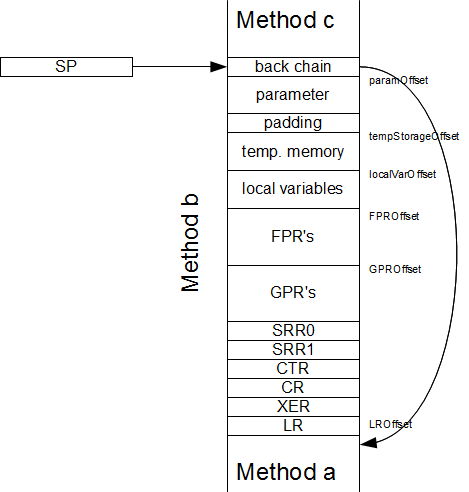
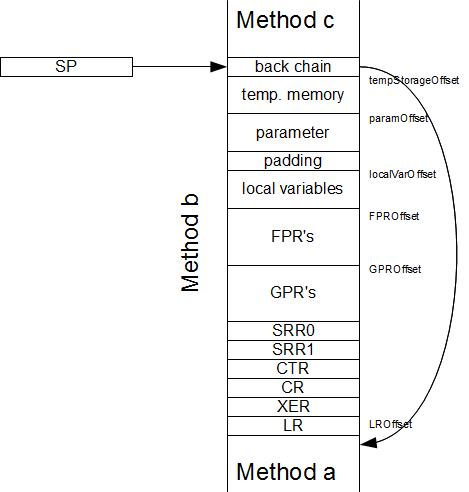
stack frame corrected, tempStorage moved to top

Changed region(s): [[0.5075, 0.1829, 0.7463, 0.3659], [0.7761, 0.2134, 0.9851, 0.3049], [0.7761, 0.1524, 0.9851, 0.1829]]

diff --git a/src/ch/ntb/inf/deep/cg/ppc/CodeGenPPC.java b/src/ch/ntb/inf/deep/cg/ppc/CodeGenPPC.java
@@ -50,7 +50,6 @@ public class CodeGenPPC extends CodeGen implements InstructionOpcs, Registers {
 	private static int localVarOffset;
 	private static int tempStorageOffset;	
 	private static int stackSize;
-	static boolean tempStorage;
 	static boolean enFloatsInExc;
 
 	// information about the src registers for parameters of a call to a method within this method
@@ -70,7 +69,6 @@ public class CodeGenPPC extends CodeGen implements InstructionOpcs, Registers {
 		
 		if (dbg) StdStreams.vrb.println("build intervals");
 
-		tempStorage = false;
 		enFloatsInExc = false;
 		RegAllocator.regsGPR = regsGPRinitial;
 		RegAllocator.regsFPR = regsFPRinitial;
@@ -308,7 +306,7 @@ public class CodeGenPPC extends CodeGen implements InstructionOpcs, Registers {
 	}
 
 	private static int calcStackSize() {
-		int size = 8 + callParamSlotsOnStack * 4 + nofNonVolGPR * 4 + nofNonVolFPR * 8 + RegAllocator.maxLocVarStackSlots * 4 + (tempStorage? tempStorageSize : 0);
+		int size = 8 + callParamSlotsOnStack * 4 + nofNonVolGPR * 4 + nofNonVolFPR * 8 + RegAllocator.maxLocVarStackSlots * 4 + tempStorageSize;
 		if (enFloatsInExc) size += nonVolStartFPR * 8 + 8;	// save volatile FPR's and FPSCR
 		int padding = (16 - (size % 16)) % 16;
 		size = size + padding;
@@ -317,13 +315,13 @@ public class CodeGenPPC extends CodeGen implements InstructionOpcs, Registers {
 		FPRoffset = GPRoffset - nofNonVolFPR * 8;
 		if (enFloatsInExc) FPRoffset -= nonVolStartFPR * 8 + 8;
 		localVarOffset = FPRoffset - RegAllocator.maxLocVarStackSlots * 4;
-		tempStorageOffset = localVarOffset - tempStorageSize;
-		paramOffset = 4;
+		tempStorageOffset = 4;
+		paramOffset = tempStorageOffset + tempStorageSize;
 		return size;
 	}
 
 	private static int calcStackSizeException() {
-		int size = 28 + nofGPR * 4 + RegAllocator.maxLocVarStackSlots * 4 + (tempStorage? tempStorageSize : 0);
+		int size = 28 + nofGPR * 4 + RegAllocator.maxLocVarStackSlots * 4 + tempStorageSize;
 		if (enFloatsInExc) {
 			size += nofNonVolFPR * 8;	// save used nonvolatile FPR's
 			size += nonVolStartFPR * 8 + 8;	// save all volatile FPR's and FPSCR
@@ -340,8 +338,8 @@ public class CodeGenPPC extends CodeGen implements InstructionOpcs, Registers {
 		FPRoffset = GPRoffset - nofNonVolFPR * 8;
 		if (enFloatsInExc) FPRoffset -= nonVolStartFPR * 8 + 8;
 		localVarOffset = FPRoffset - RegAllocator.maxLocVarStackSlots * 4;
-		tempStorageOffset = localVarOffset - tempStorageSize;
-		paramOffset = 4;
+		tempStorageOffset = 4;
+		paramOffset = tempStorageOffset + tempStorageSize;
 		return size;
 	}
 

diff --git a/src/ch/ntb/inf/deep/cg/ppc/RegAllocatorPPC.java b/src/ch/ntb/inf/deep/cg/ppc/RegAllocatorPPC.java
@@ -83,10 +83,6 @@ public class RegAllocatorPPC extends RegAllocator implements SSAInstructionOpcs,
 					if ((((Method)call.item).id) == CodeGenPPC.idENABLE_FLOATS) {
 					CodeGenPPC.enFloatsInExc = true;
 				}
-				int id = ((Method)call.item).id;
-				if (id == CodeGenPPC.idDoubleToBits || (id == CodeGenPPC.idBitsToDouble) ||  // DoubleToBits or BitsToDouble
-					id == CodeGenPPC.idFloatToBits || (id == CodeGenPPC.idBitsToFloat))  // FloatToBits or BitsToFloat
-					CodeGenPPC.tempStorage = true;
 			}
 		}
 		
@@ -134,12 +130,12 @@ public class RegAllocatorPPC extends RegAllocator implements SSAInstructionOpcs,
 			}
 			
 			// reserve temporary storage on the stack for certain fpr operations
-			if ((scAttrTab[instr.ssaOpcode] & (1 << ssaApTempStore)) != 0) 
-				CodeGenPPC.tempStorage = true;
-			if (instr.ssaOpcode == sCloadConst && (res.type == tFloat || res.type == tDouble))
-				CodeGenPPC.tempStorage = true;
-			if ((instr.ssaOpcode == sCdiv || instr.ssaOpcode == sCrem) && res.type == tLong)
-				CodeGenPPC.tempStorage = true;
+//			if ((scAttrTab[instr.ssaOpcode] & (1 << ssaApTempStore)) != 0) 
+//				CodeGenPPC.tempStorage = true;
+//			if (instr.ssaOpcode == sCloadConst && (res.type == tFloat || res.type == tDouble))
+//				CodeGenPPC.tempStorage = true;
+//			if ((instr.ssaOpcode == sCdiv || instr.ssaOpcode == sCrem) && res.type == tLong)
+//				CodeGenPPC.tempStorage = true;
 
 			// reserve register for result of instruction
 			if (instr.ssaOpcode == sCloadLocal) {

diff --git a/src/ch/ntb/inf/deep/cg/ppc/Registers.java b/src/ch/ntb/inf/deep/cg/ppc/Registers.java
@@ -31,8 +31,8 @@ interface Registers {
 	final int paramEndGPR = 10;	// GPR with last parameter, must be <= nonVolStartGPR
 	final int paramEndFPR = 8;	// FPR with last parameter, must be <= nonVolStartFPR
 	
-	final int nonVolStartGPR = 19;	// first nonvolatile GPR
-	final int nonVolStartFPR = 19;	// first nonvolatile FPR
+	final int nonVolStartGPR = 13;	// first nonvolatile GPR
+	final int nonVolStartFPR = 14;	// first nonvolatile FPR
 	
 	// volEndGPR must be 1 lower than nonVolStartGPR
 	final int volEndGPR = 12;	// last volatile GPR

diff --git a/src/ch/ntb/inf/deep/cg/arm/CodeGenARM.java b/src/ch/ntb/inf/deep/cg/arm/CodeGenARM.java
@@ -315,7 +315,7 @@ public class CodeGenARM extends CodeGen implements InstructionOpcs, Registers {
 		FPRoffset = GPRoffset - nofNonVolFPR * 8;
 		if (enFloatsInExc) FPRoffset -= nonVolStartFPR * 8 + 8;
 		localVarOffset = FPRoffset - RegAllocator.maxLocVarStackSlots * 4;
-		tempStorageOffset = FPRoffset - tempStorageSize;
+		tempStorageOffset = FPRoffset - tempStorageSize;	//TODO change as in ppc
 		paramOffset = 4;
 		return size;
 	}
